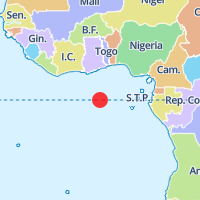
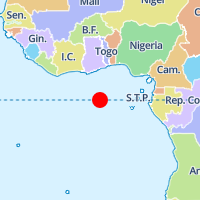
wip

Changed region(s): [[0.45, 0.45, 0.54, 0.54]]

diff --git a/martin/src/srv/styles_static.rs b/martin/src/srv/styles_static.rs
@@ -9,13 +9,13 @@ use actix_web::web::{Bytes, Data, Path};
 use actix_web::{FromRequest, HttpRequest, HttpResponse, route};
 use geo_types::coord;
 use geojson::FeatureCollection;
+use martin_core::overlay::{self, ParsedOverlays, parse_feature_collection};
 use martin_core::styles::{RenderParams, StyleSources};
 use martin_tile_utils::{EARTH_CIRCUMFERENCE, wgs84_to_webmercator};
 use serde::Deserialize;
 use tracing::{debug, error, trace, warn};
 
 use crate::srv::server::DebouncedWarning;
-use crate::srv::static_overlay::{self, ParsedOverlays, parse_feature_collection};
 use crate::srv::styles_rendering::{ImageFormatRequest, encode_image_response};
 
 #[derive(Deserialize, Debug)]
@@ -382,7 +382,7 @@ struct StaticOverlayProperties {
     #[schema(default = 0.6, minimum = 0.0, maximum = 1.0, example = 0.5)]
     fill_opacity: Option<f64>,
 
-    /// CSS color for point markers (rendered with reduced alpha by default).
+    /// CSS color for point markers.
     #[schema(default = "#FF0000", example = "#285DAA")]
     marker_color: Option<String>,
 }
@@ -497,13 +497,13 @@ fn compose_overlays<'a>(
     // `base` is already physical pixels (logical * pixel_ratio); bumping zoom
     // by log2(pixel_ratio) is equivalent to scaling 256*2^zoom by pixel_ratio,
     // so overlays project onto the same pixel grid as the base map at @Nx.
-    let view = static_overlay::OverlayView {
+    let view = overlay::OverlayView {
         width: base.width(),
         height: base.height(),
         center: coord! { x: camera.center_lon, y: camera.center_lat },
         zoom: camera.zoom + f64::from(pixel_ratio).log2(),
     };
-    std::borrow::Cow::Owned(static_overlay::draw_overlays(
+    std::borrow::Cow::Owned(overlay::draw_overlays(
         base,
         &overlays.paths,
         &overlays.markers,

diff --git a/martin-core/src/lib.rs b/martin-core/src/lib.rs
@@ -20,3 +20,7 @@ pub mod tiles;
 mod resources;
 #[cfg(any(feature = "fonts", feature = "sprites", feature = "styles"))]
 pub use resources::*;
+
+/// Draw vector overlays (paths, markers) onto a rendered raster.
+#[cfg(feature = "overlay")]
+pub mod overlay;

diff --git a/martin/src/srv/mod.rs b/martin/src/srv/mod.rs
@@ -58,9 +58,6 @@ pub use styles_rendering::redirect_tile_jpeg;
 pub use styles_rendering::{__path_get_rendered_tile_style, get_rendered_tile_style};
 
 #[cfg(all(feature = "rendering", target_os = "linux"))]
-mod static_overlay;
-
-#[cfg(all(feature = "rendering", target_os = "linux"))]
 mod styles_static;
 #[cfg(all(feature = "rendering", target_os = "linux"))]
 pub use styles_static::redirect_static_jpeg;